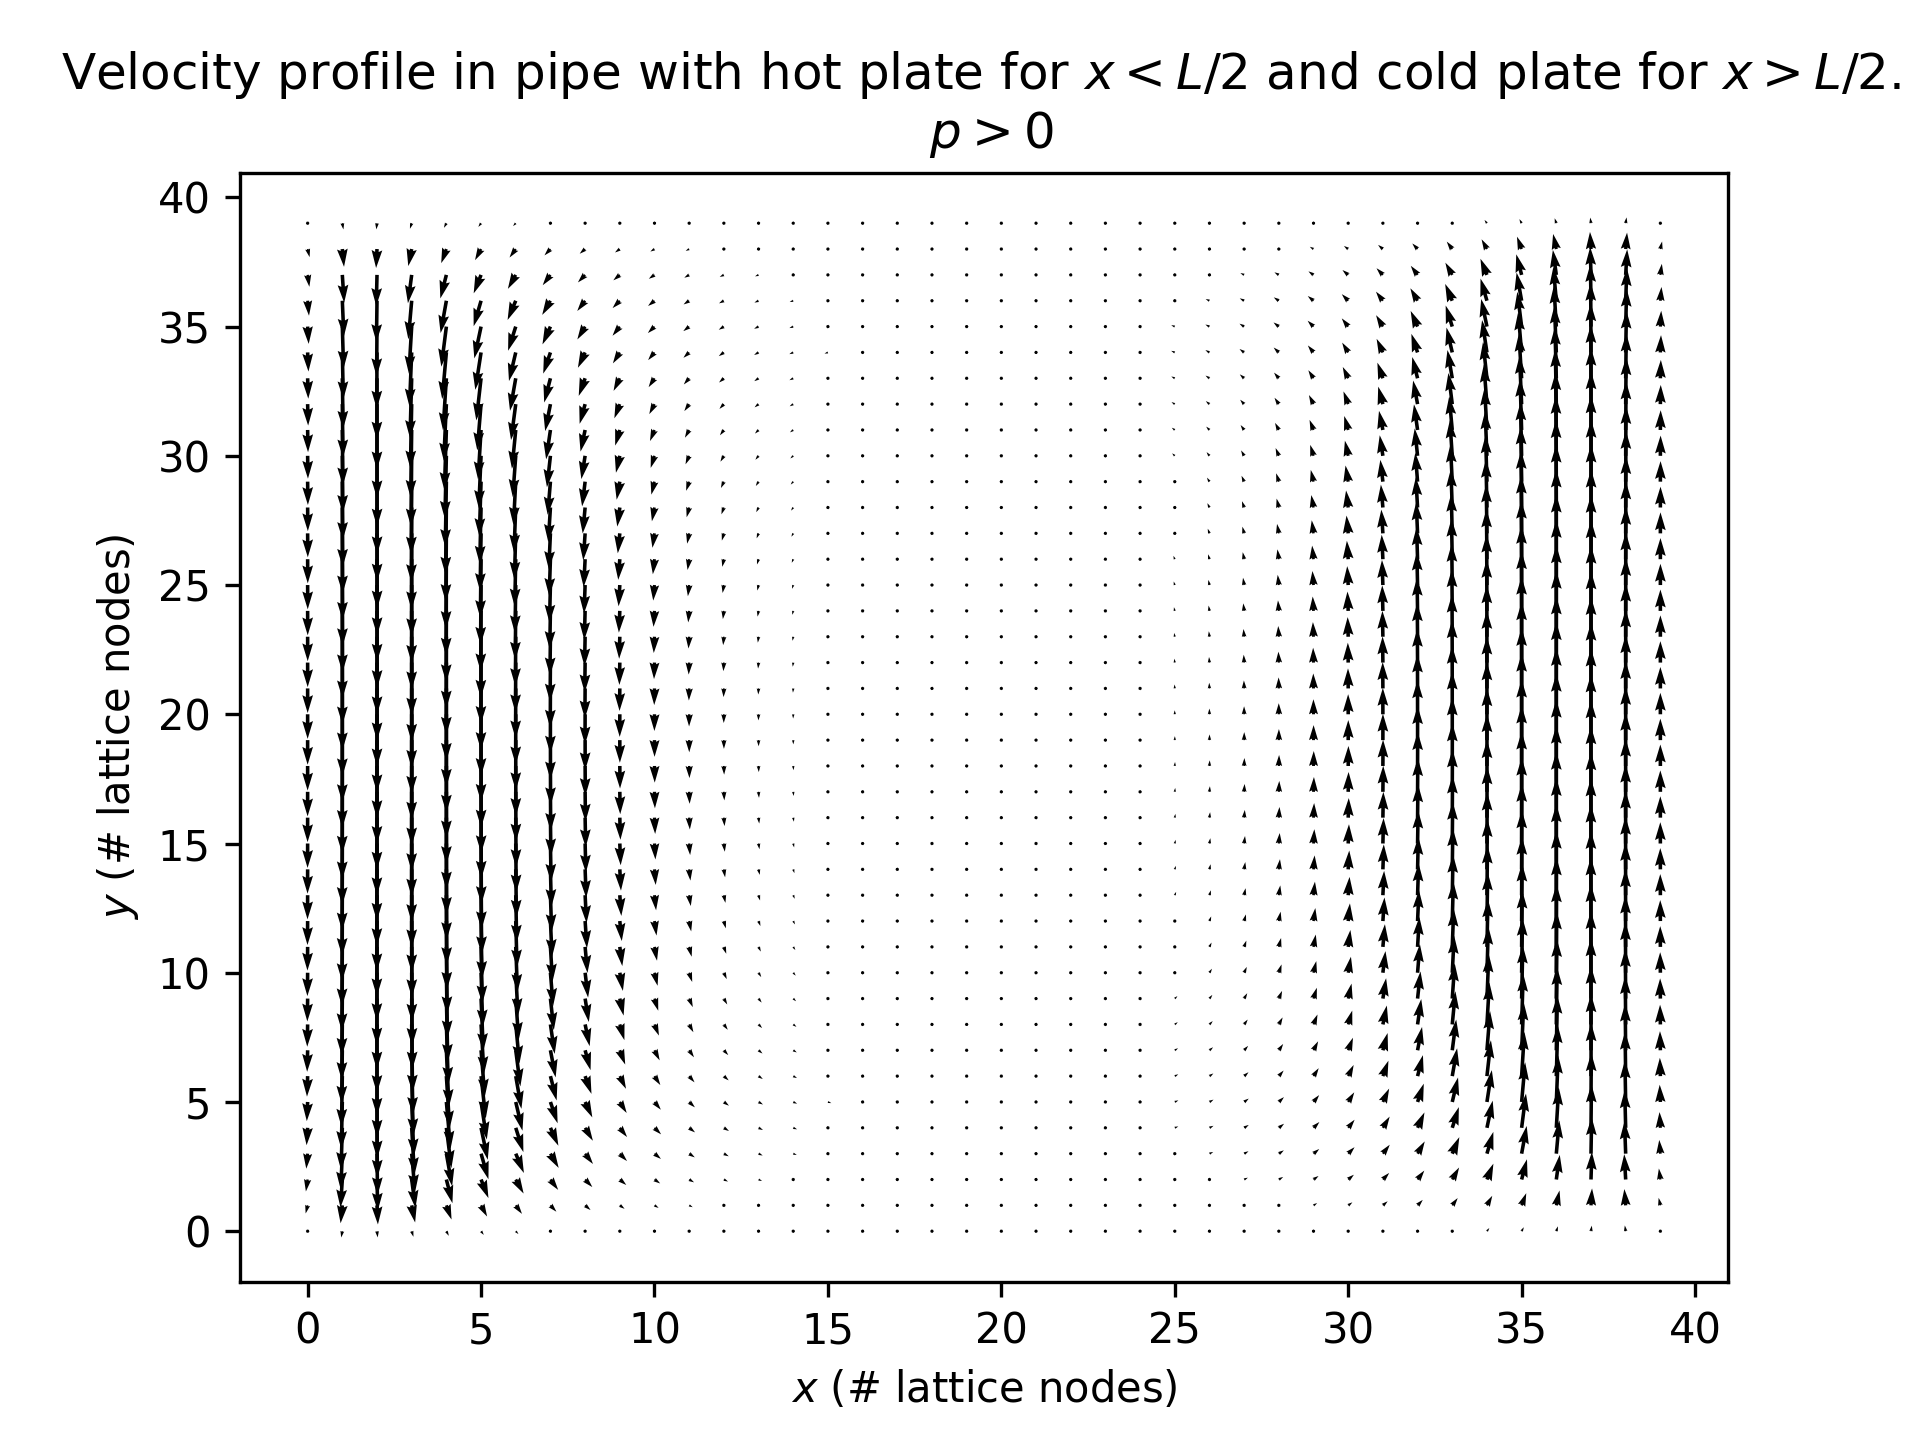
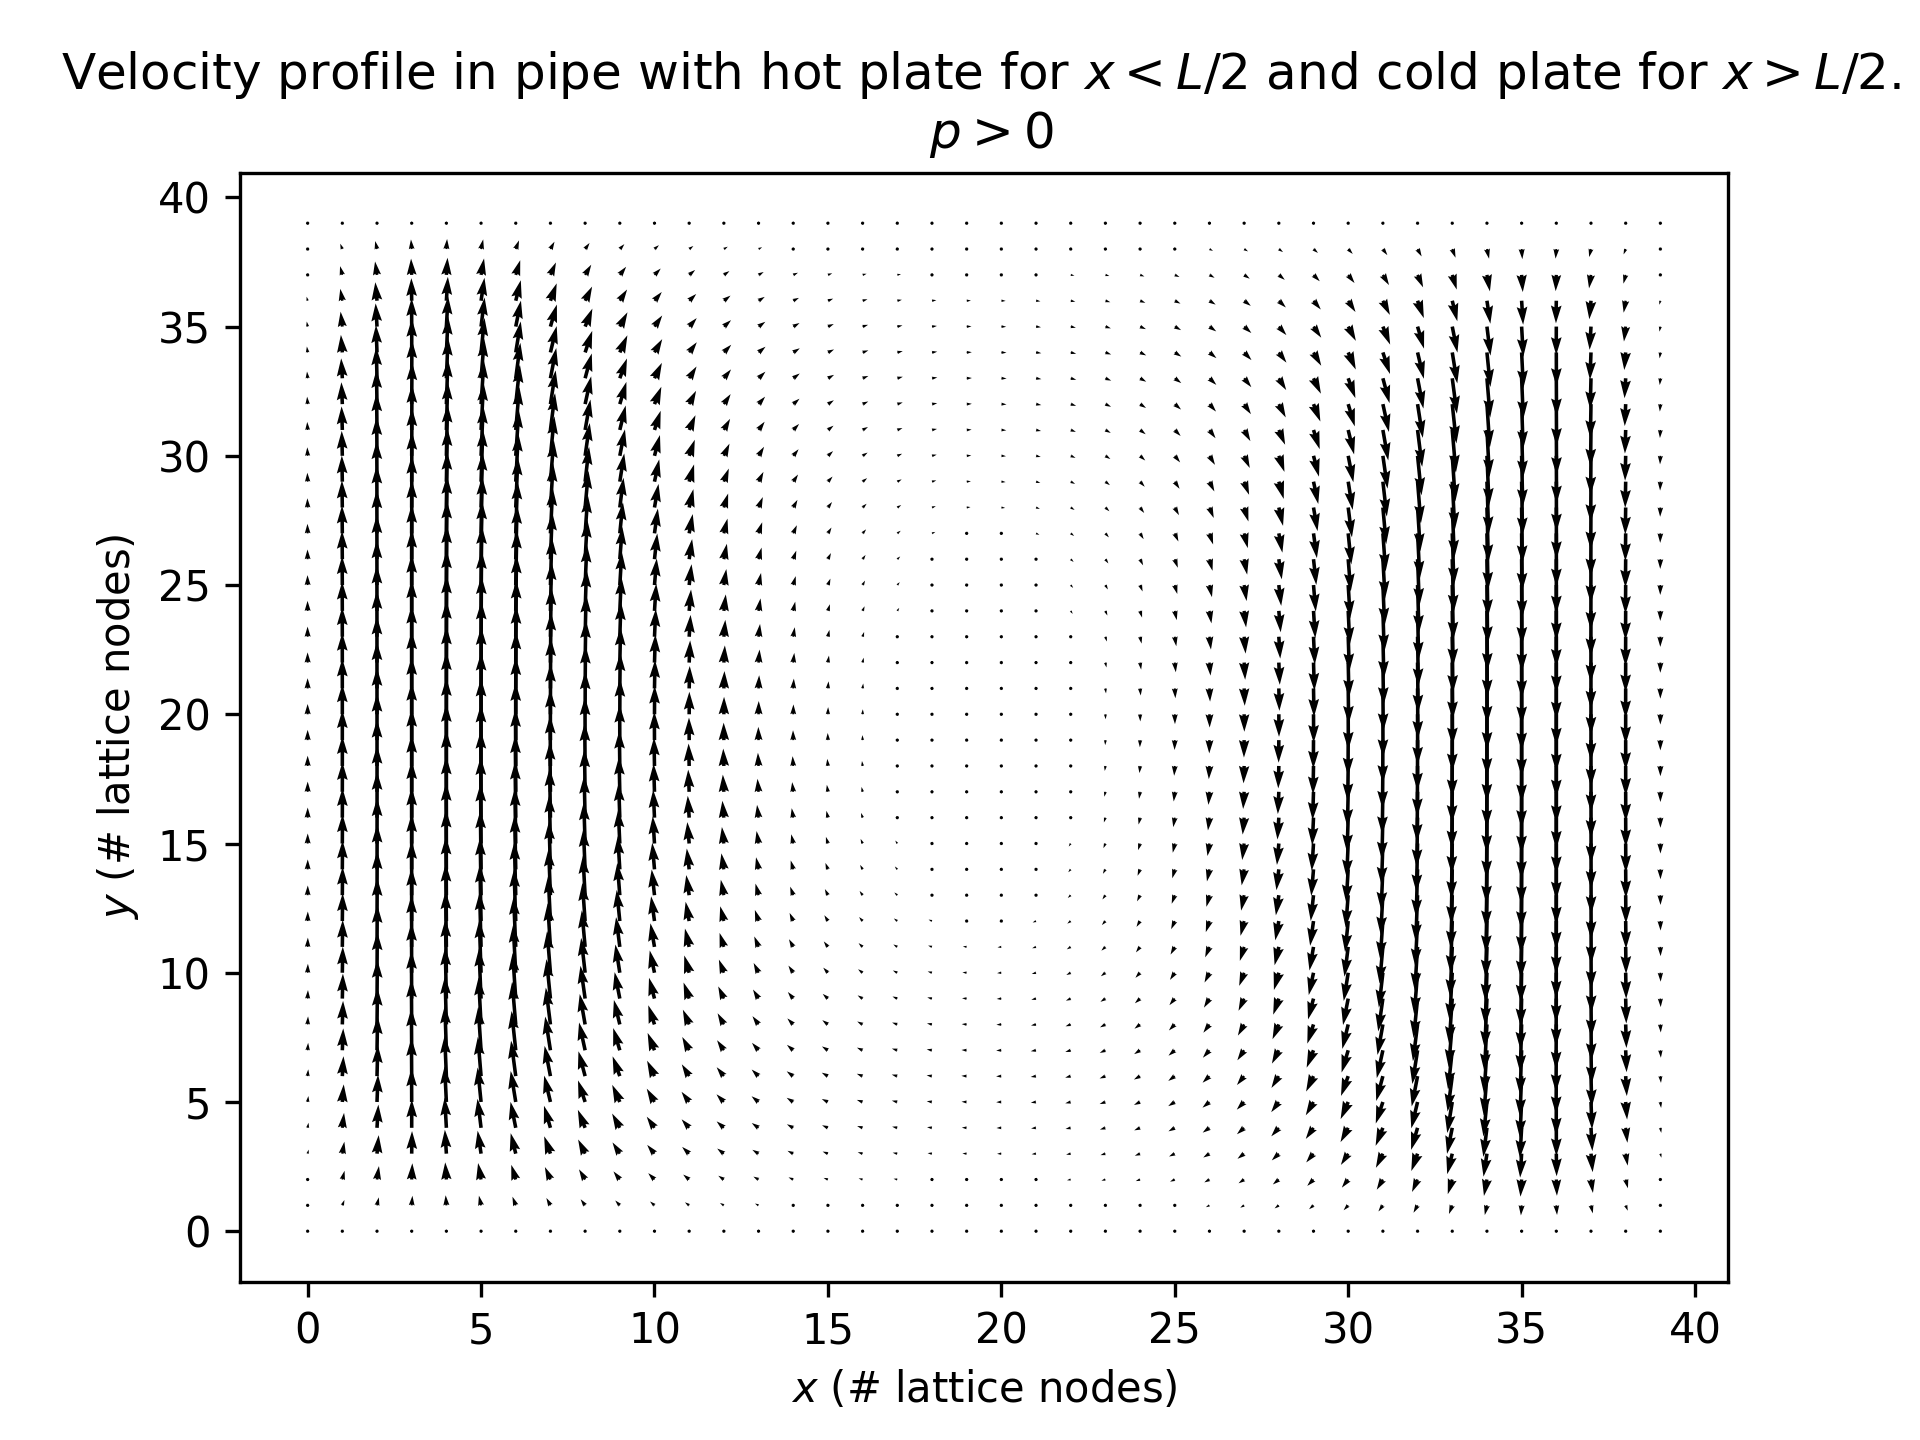
Commit 1 26feb

Changed region(s): [[0.1562, 0.1562, 0.4062, 0.8438], [0.625, 0.1562, 0.875, 0.8438]]

diff --git a/sq_cav_th_trt.py b/sq_cav_th_trt.py
@@ -12,8 +12,8 @@ pd.set_option("display.max_rows", None, "display.max_columns", None)
 
 # Define constants
 # Physical parameters
-L = 0.01            # m
-H = 0.01            # m
+L = 0.0075            # m
+H = L            # m
 g = 9.81            # m/s^2
 Time = 10           # s
 nu = 1e-6           # m^2/s
@@ -27,13 +27,14 @@ umax = np.sqrt(g * beta * (T_H - T0) * L)
 
 # Dimensionless numbers
 Re = umax * H / nu
-Ra = beta * (T_H - T0) * g * L**3 / (nu * alpha)
+Ra = beta * (T_H - T0) * g * H**3 / (nu * alpha)
+print('Ra', Ra)
 Pr = 7
 Ma = 0.1
 
 # Choose simulation parameters
 Lambda = 1/4
-tau_plus = 0.65
+tau_plus = 0.75
 rho0_sim = 1
 Ny = 40
 
@@ -51,13 +52,10 @@ tau_minus = dt_sim * (Lambda / (tau_plus / dt_sim - 1/2) + 1/2)
 # Calculate conversion parameters
 dx = H / Ny
 dt = c_s ** 2 * (tau_plus - 1 / 2) * dx ** 2 / nu
-print('dt', dt)
 Cu = dx / dt
-print('Cu', Cu)
 Cg = dx / dt**2
 Crho = rho0 / rho0_sim
 CF = Crho * Cg
-print('CF', CF)
 
 # D2Q9 lattice constants
 c_i = np.array([[0, 0], [1, 0], [0, 1], [-1, 0], [0, -1], [1, 1], [-1, 1], [-1, -1], [1, -1]], dtype=np.int)
@@ -71,16 +69,17 @@ alpha_sim = nu_sim / Pr
 # Grid and time steps
 Nx = Ny                     # lattice nodes in the x-direction
 Nt = np.int(Time / dt)         # time steps
+print('Nt', Nt)
 
 # Forces
 g_sim = g / Cg * np.array([0, -1])
 # gi_sim = (g_sim * w_i / c_s**2) * np.array([0, 0, -1, 0, 1, -1, -1, 1, 1])
 
 # Initial conditions
-ux = np.zeros((Nx, Ny))       # Simulation velocity in x direction
-uy = np.zeros((Nx, Ny))       # Simulation velocity in y direction
-rho_sim = rho0_sim * np.ones((Nx, Ny))   # Simulation density
-T_dim = np.zeros((Nx, Ny))    # Dimensionless simulation temperature
+ux = np.zeros((Nx, Ny))                 # Simulation velocity in x direction
+uy = np.zeros((Nx, Ny))                 # Simulation velocity in y direction
+rho_sim = rho0_sim * np.ones((Nx, Ny))  # Simulation density
+T_dim = np.zeros((Nx, Ny))              # Dimensionless simulation temperature
 
 # Temperature BCS
 T_BC_H = np.ones(Ny) * beta * (T_H - T0)
@@ -183,8 +182,10 @@ def lower_left_corner(f_i, f_star):
     f_i[i, j, 3] = f_star[i+1, j, 3]
     f_i[i, j, 4] = f_star[i, j+1, 4]
     f_i[i, j, 5] = f_star[i, j, 7]                  # Bounce
+    # f_i[i, j, 6] = 0
     f_i[i, j, 6] = f_star[i, j, 8]                  # Bounce
     f_i[i, j, 7] = f_star[i+1, j+1, 7]
+    # f_i[i, j, 8] = 0
     f_i[i, j, 8] = f_star[i, j, 6]                  # Bounce
 
     return f_i
@@ -199,8 +200,10 @@ def lower_right_corner(Nx, f_i, f_star):
     f_i[i, j, 2] = f_star[i, j, 4]                  # Bounce
     f_i[i, j, 3] = f_star[i, j, 1]                  # Bounce
     f_i[i, j, 4] = f_star[i, j+1, 4]
+    # f_i[i, j, 5] = 0
     f_i[i, j, 5] = f_star[i, j, 7]                  # Bounce
     f_i[i, j, 6] = f_star[i, j, 8]                  # Bounce
+    # f_i[i, j, 7] = 0
     f_i[i, j, 7] = f_star[i, j, 5]                  # Bounce
     f_i[i, j, 8] = f_star[i-1, j+1, 8]
 
@@ -216,8 +219,10 @@ def upper_left_corner(f_i, f_star):
     f_i[i, j, 2] = f_star[i, j-1, 2]
     f_i[i, j, 3] = f_star[i+1, j, 3]
     f_i[i, j, 4] = f_star[i, j, 2]                  # Bounce
+    # f_i[i, j, 5] = 0
     f_i[i, j, 5] = f_star[i, j, 7]                  # Bounce
     f_i[i, j, 6] = f_star[i+1, j-1, 6]
+    # f_i[i, j, 7] = 0
     f_i[i, j, 7] = f_star[i, j, 5]                  # Bounce
     f_i[i, j, 8] = f_star[i, j, 6]                  # Bounce
 
@@ -234,8 +239,10 @@ def upper_right_corner(f_i, f_star):
     f_i[i, j, 3] = f_star[i, j, 1]                  # Bounce
     f_i[i, j, 4] = f_star[i, j, 2]                  # Bounce
     f_i[i, j, 5] = f_star[i-1, j-1, 5]
+    # f_i[i, j, 6] = 0
     f_i[i, j, 6] = f_star[i, j, 8]                  # Bounce
     f_i[i, j, 7] = f_star[i, j, 5]                  # Bounce
+    # f_i[i, j, 8] = 0
     f_i[i, j, 8] = f_star[i, j, 6]                  # Bounce
 
     return f_i
@@ -344,18 +351,13 @@ def temperature(T, alpha, ux, uy, T_BC_lower, T_BC_upper):
     T_new[:, 0] = 3/2 * T_new[:, 1] - 1/2 * T_new[:, 2]
     T_new[:, -1] = 3/2 * T_new[:, -2] - 1/2 * T_new[:, -3]
 
-    # T_new[:, 0] = 21/23 * T_new[:, 1] + 3/23 * T_new[:, 2] - 1/23 * T_new[:, 3]
-    # T_new[:, -1] = 21/23 * T_new[:, -2] + 3/23 * T_new[:, -3] - 1/23 * T_new[:, -4]
-
     # easy_view(3, T_new)
 
     return T_new
 
 
-# Temperature BCs
-T_dim[0, :] = T_BC_C
-T_dim[-1, :] = T_BC_H
-F_buoy = - T_dim[:, :, None] * g_sim                                            # New buoyancy force
+# Buoyancy force
+F_buoy = - T_dim[:, :, None] * g_sim
 
 # Initialize equilibrium function
 f_plus, f_minus, Si = f_equilibrium(w_i, rho_sim, ux, uy, c_i, q, c_s, F_buoy)
@@ -364,41 +366,35 @@ f_i = f_plus + f_minus
 start = time.time()
 
 for t in range(Nt):
+    # Buoyancy force
+    F_buoy = - T_dim[:, :, None] * g_sim
+
     # Calculate macroscopic quantities
-    #### IN TERMEN VAN EVEN FUNCTIES
-    rho = np.sum(f_plus, axis=2)
-    ux = 0 * np.sum(f_minus[:, :] * c_i[:, 0], axis=2)
-    uy = 0 * np.sum(f_minus[:, :] * c_i[:, 1], axis=2)
+    rho_sim = np.sum(f_plus, axis=2)
+    ux = np.sum(f_minus[:, :] * c_i[:, 0], axis=2) / rho_sim + F_buoy[:, :, 0] / 2
+    uy = np.sum(f_minus[:, :] * c_i[:, 1], axis=2) / rho_sim + F_buoy[:, :, 1] / 2
+    # ux = np.sum(f_minus[:, :] * c_i[:, 0], axis=2) / rho + F_g[:, :, 0] / 2
+    # uy = np.sum(f_minus[:, :] * c_i[:, 1], axis=2) / rho + F_g[:, :, 1] / 2
 
-    # print(1, T_dim)
-    T_dim = temperature(T_dim, alpha_sim, ux, uy, T_BC_C, T_BC_H)   # New T
-    # print(2, T_dim)
+    # Temperature
+    T_dim = temperature(T_dim, alpha_sim, ux, uy, T_BC_C, T_BC_H)
 
-    F_buoy = - T_dim[:, :, None] * g_sim                                            # New buoyancy force
+    # F_g = rho_sim[:, :, None] * g_sim
 
-    f_eq_plus, f_eq_minus, Si = f_equilibrium(w_i, rho_sim, ux, uy, c_i, q, c_s, F_buoy)        # New equilibrium distribution
+    # New equilibrium distribution
+    # f_eq_plus, f_eq_minus, Si = f_equilibrium(w_i, rho_sim, ux, uy, c_i, q, c_s, F_g)
+    f_eq_plus, f_eq_minus, Si = f_equilibrium(w_i, rho_sim, ux, uy, c_i, q, c_s, F_buoy)
 
     # Collision step
     f_star = f_i - (f_plus - f_eq_plus) / tau_plus - (f_minus - f_eq_minus) / tau_minus + Si
+    # if t in [0, 1, 2, 3]:
+    #     print(t, f_star[:, :, 1].T)
 
     # Streaming step
     f_i = streaming(Nx, Ny, f_i, f_star)
+    # if t in [0, 1, 2, 3]:
+    #     print(t, f_i[:, :, 1].T)
     f_plus, f_minus = decompose_f_i(f_i)
-
-    # ## Vector plot
-    # if t in [0, 5, 10, 15, 20]:
-    #     plt.figure(t)
-    #     plt.clf()
-    #     plt.imshow(np.flip(T_dim, axis=1).T, cmap=cm.Blues)
-    #     plt.colorbar()
-    #     plt.savefig("Figures/sq_cav_th/heatmap_T" + str(t) + ".png")
-    #     plt.figure(np.int(t/200)+2, dpi=300)
-    #     plt.quiver(ux.T, uy.T)
-    #     plt.xlabel('$x$ (# lattice nodes)')
-    #     plt.ylabel('$y$ (# lattice nodes)')
-    #     plt.title('Velocity profile in pipe with hot plate for $x < L/2$ and cold plate for $x > L/2$. \n $p>0$')
-    #     # plt.legend('Velocity vector')
-    #     plt.savefig("Figures/sq_cav_th/arrowplot_temp" + str(t) + ".png")
 
 stop = time.time()
 print(stop-start)
@@ -415,6 +411,14 @@ u_th = umax_sim * (1 - r_phys ** 2 / R ** 2)
 
 T = T_dim / beta + T0
 
+# ## Streamplot
+# plt.figure(figsize=(7,9))
+# x = np.linspace(dx, L-dx, len(ux))
+# y = np.linspace(dx, H-dx, len(uy))
+# X, Y = np.meshgrid(x, y)
+# plt.streamplot(X, Y, ux.T, uy.T)
+# plt.show()
+
 ## Vector plot
 # plt.figure(np.int(t/200)+1)
 x = np.linspace(dx, L-dx, len(ux))
@@ -427,33 +431,42 @@ y = np.linspace(dx, H-dx, len(uy))
 # plt.legend('Velocity vector')
 # plt.savefig("Figures/sq_cav_th/arrowplot_temp" + str(t-2) + ".png")
 
-## Vector plot
-# plt.figure(np.int(t/200)+2, dpi=300)
-# plt.quiver(Cu*ux.T, Cu*uy.T)
-# plt.xlabel('$x$ (# lattice nodes)')
-# plt.ylabel('$y$ (# lattice nodes)')
-# plt.title('$u$ in pipe with left wall at $T=298K$ and right wall at $T=288K$')
-# # plt.legend('Velocity vector')
-# plt.savefig("Figures/sq_cav_th/arrowplot_" + str(1) + "_time10.png")
-#
-# # Heatmaps
-# plt.figure(2)
-# plt.clf()
-# plt.imshow(Cu*ux.T, cmap=cm.Blues, origin='lower')
-# plt.xlabel('$x$ (# lattice nodes)')
-# plt.ylabel('$y$ (# lattice nodes)')
-# plt.title('$u_x$ in pipe with left wall at $T=298K$ and right wall at $T=288K$')
-# plt.colorbar()
-# plt.savefig("Figures/sq_cav_th/heatmapx_" + str(2) + "_time10.png")
-#
-# plt.figure(3)
-# plt.clf()
-# plt.imshow(np.flip(Cu*uy, axis=1).T, cmap=cm.Blues)
-# plt.xlabel('$x$ (# lattice nodes)')
-# plt.ylabel('$y$ (# lattice nodes)')
-# plt.title('$u_y$ in pipe with left wall at $T=298K$ and right wall at $T=288K$')
-# plt.colorbar()
-# plt.savefig("Figures/sq_cav_th/heatmap_uy_" + str(3) + "_time10.png")
+# Vector plot
+plt.figure(np.int(t/200)+2, dpi=300)
+plt.quiver(Cu*ux.T, Cu*uy.T)
+plt.xlabel('$x$ (# lattice nodes)')
+plt.ylabel('$y$ (# lattice nodes)')
+plt.title(f'$u$ in pipe with left wall at $T={T_H}K$ and right wall at $T={T_C}K$')
+# plt.legend('Velocity vector')
+plt.savefig(f"Figures/flow_test/arrowplot_time{Time}_test.png")
+
+# Heatmaps
+plt.figure(2)
+plt.clf()
+plt.imshow(Cu*ux.T, cmap=cm.Blues, origin='lower')
+plt.xlabel('$x$ (# lattice nodes)')
+plt.ylabel('$y$ (# lattice nodes)')
+plt.title(f'$u_x$ in cavity with left wall at $T={T_H}K$ and right wall at $T={T_C}K$')
+plt.colorbar()
+plt.savefig(f"Figures/flow_test/heatmap_ux_time{Time}_test.png")
+
+plt.figure(3)
+plt.clf()
+plt.imshow(np.flip(Cu*uy, axis=1).T, cmap=cm.Blues)
+plt.xlabel('$x$ (# lattice nodes)')
+plt.ylabel('$y$ (# lattice nodes)')
+plt.title(f'$u_y$ in cavity with left wall at $T={T_H}K$ and right wall at $T={T_C}K$')
+plt.colorbar()
+plt.savefig(f"Figures/flow_test/heatmap_uy_time{Time}_test.png")
+
+plt.figure(5)
+plt.clf()
+plt.imshow(np.flip(rho_sim, axis=1).T, cmap=cm.Blues)
+plt.xlabel('$x$ (# lattice nodes)')
+plt.ylabel('$y$ (# lattice nodes)')
+plt.title(f'$\\rho$ in cavity with left wall at $T={T_H}K$ and right wall at $T={T_C}K$')
+plt.colorbar()
+plt.savefig(f"Figures/flow_test/heatmap_rho_time{Time}_test.png")
 
 ## Temperature heatmap
 plt.figure(4)
@@ -463,12 +476,12 @@ plt.xlabel('$x$ (# lattice nodes)')
 plt.ylabel('$y$ (# lattice nodes)')
 plt.title('$T$ in cavity with left wall at $T=298K$ and right wall at $T=288K$. No flow.')
 plt.colorbar()
-plt.savefig(f"Figures/sq_cav_th/heatmap_T_adv_newBCs_time{Time}" + str() + ".png")
-
-## Temperature line plot
-plt.figure(0)
-plt.plot(x, T[:, 0])
-plt.xlabel('$x$ (m)')
-plt.ylabel('$T$ (K)')
-plt.title('$T$ in cavity with left wall at $T=298K$ and right wall at $T=288K$. 1D cross section.')
-plt.savefig(f"Figures/sq_cav_th/lineplot_T_adv_newBCs_time{Time}" + str() + ".png")
+plt.savefig(f"Figures/flow_test/heatmap_T_time{Time}_test.png")
+#
+# ## Temperature line plot
+# plt.figure(0)
+# plt.plot(x, T[:, 0])
+# plt.xlabel('$x$ (m)')
+# plt.ylabel('$T$ (K)')
+# plt.title('$T$ in cavity with left wall at $T=298K$ and right wall at $T=288K$. 1D cross section.')
+# plt.savefig(f"Figures/sq_cav_th/lineplot_T_adv_newBCs_time{Time}" + str() + ".png")

diff --git a/Poiseuille_vel_temp.py b/Poiseuille_vel_temp.py
@@ -218,45 +218,54 @@ R = r_phys[-1]
 umax_sim = np.amax(ux[np.int(np.rint(Nx / 2)), 1:Ny])
 u_th = umax_sim * (1 - r_phys ** 2 / R ** 2)
 
-## Line plot
-plt.figure(np.int(t/200))
-plt.plot(ux[np.int(np.rint(Nx / 2)), :], r_phys)
-plt.plot(u_th, r_phys, 'o')
-plt.title('Velocity profile of simple Poiseuille flow.')
-plt.xlabel('$u$ (m/s)')
-plt.ylabel('$r$ (m)')
-plt.savefig("Figures/Pois_temp/lineplot_temp" + str(t) + ".png")
-
 ## Vector plot
-plt.figure(np.int(t/200)+1)
-print(1, ux.T)
-print(2, uy.T)
-plt.quiver(ux.T, uy.T)
+# plt.figure(np.int(t/200)+1)
+x = np.linspace(dx, L-dx, len(ux))
+y = np.linspace(dx, H-dx, len(uy))
+# fig = ff.create_streamline(x, y, ux.T, uy.T)
+# fig.show()
+# plt.xlabel('$x$ (# lattice nodes)')
+# plt.ylabel('$y$ (# lattice nodes)')
+# plt.title('Velocity profile in pipe with hot plate for $x < L/2$ and cold plate for $x > L/2$. \n $p>0$')
+# plt.legend('Velocity vector')
+# plt.savefig("Figures/sq_cav_th/arrowplot_temp" + str(t-2) + ".png")
+
+# Vector plot
+plt.figure(np.int(t/200)+2, dpi=300)
+plt.quiver(Cu*ux.T, Cu*uy.T)
 plt.xlabel('$x$ (# lattice nodes)')
 plt.ylabel('$y$ (# lattice nodes)')
-plt.title('Velocity profile in pipe with hot plate for $x < L/2$ and cold plate for $x > L/2$. \n $p>0$')
+plt.title(f'$u$ in gravity Poiseuille flow')
 # plt.legend('Velocity vector')
-plt.savefig("Figures/Pois_temp/arrowplot_temp" + str(t) + ".png")
-#
-# ## Heatmaps
-# plt.figure(2)
-# plt.clf()
-# plt.imshow(ux.T, cmap=cm.Blues)
-# plt.colorbar()
-# plt.savefig("Figures/Pois_temp/heatmapx_temp" + str(t) + ".png")
-# #
-# plt.figure(3)
-# plt.clf()
-# plt.imshow(np.flip(uy, axis=1).T, cmap=cm.Blues)
-# plt.colorbar()
-# plt.savefig("Figures/Pois_temp/heatmap_uy_temp" + str(t) + ".png")
-#
-# ## Temperature heatmap
-# plt.figure(4)
-# plt.clf()
-# plt.imshow(np.flip(T_dim, axis=1).T, cmap=cm.Blues)
-# plt.colorbar()
-# plt.savefig("Figures/Pois_temp/heatmap_T" + str(t / 100) + ".png")
+plt.savefig(f"Figures/vert_pois/arrowplot_time{Time}.png")
+
+# Heatmaps
+plt.figure(2)
+plt.clf()
+plt.imshow(Cu*ux.T, cmap=cm.Blues, origin='lower')
+plt.xlabel('$x$ (# lattice nodes)')
+plt.ylabel('$y$ (# lattice nodes)')
+plt.title(f'$u_x$ in gravity Poiseuille flow')
+plt.colorbar()
+plt.savefig(f"Figures/vert_pois/heatmap_ux_time{Time}.png")
+
+plt.figure(3)
+plt.clf()
+plt.imshow(np.flip(Cu*uy, axis=1).T, cmap=cm.Blues)
+plt.xlabel('$x$ (# lattice nodes)')
+plt.ylabel('$y$ (# lattice nodes)')
+plt.title(f'$u_y$ in gravity Poiseuille flow')
+plt.colorbar()
+plt.savefig(f"Figures/vert_pois/heatmap_uy_time{Time}.png")
+
+plt.figure(5)
+plt.clf()
+plt.imshow(np.flip(rho, axis=1).T, cmap=cm.Blues)
+plt.xlabel('$x$ (# lattice nodes)')
+plt.ylabel('$y$ (# lattice nodes)')
+plt.title(f'$\\rho$ in gravity Poiseuille flow')
+plt.colorbar()
+plt.savefig(f"Figures/vert_pois/heatmap_rho_time{Time}.png")
 
 # ## Line plot
 # plt.figure(5)
